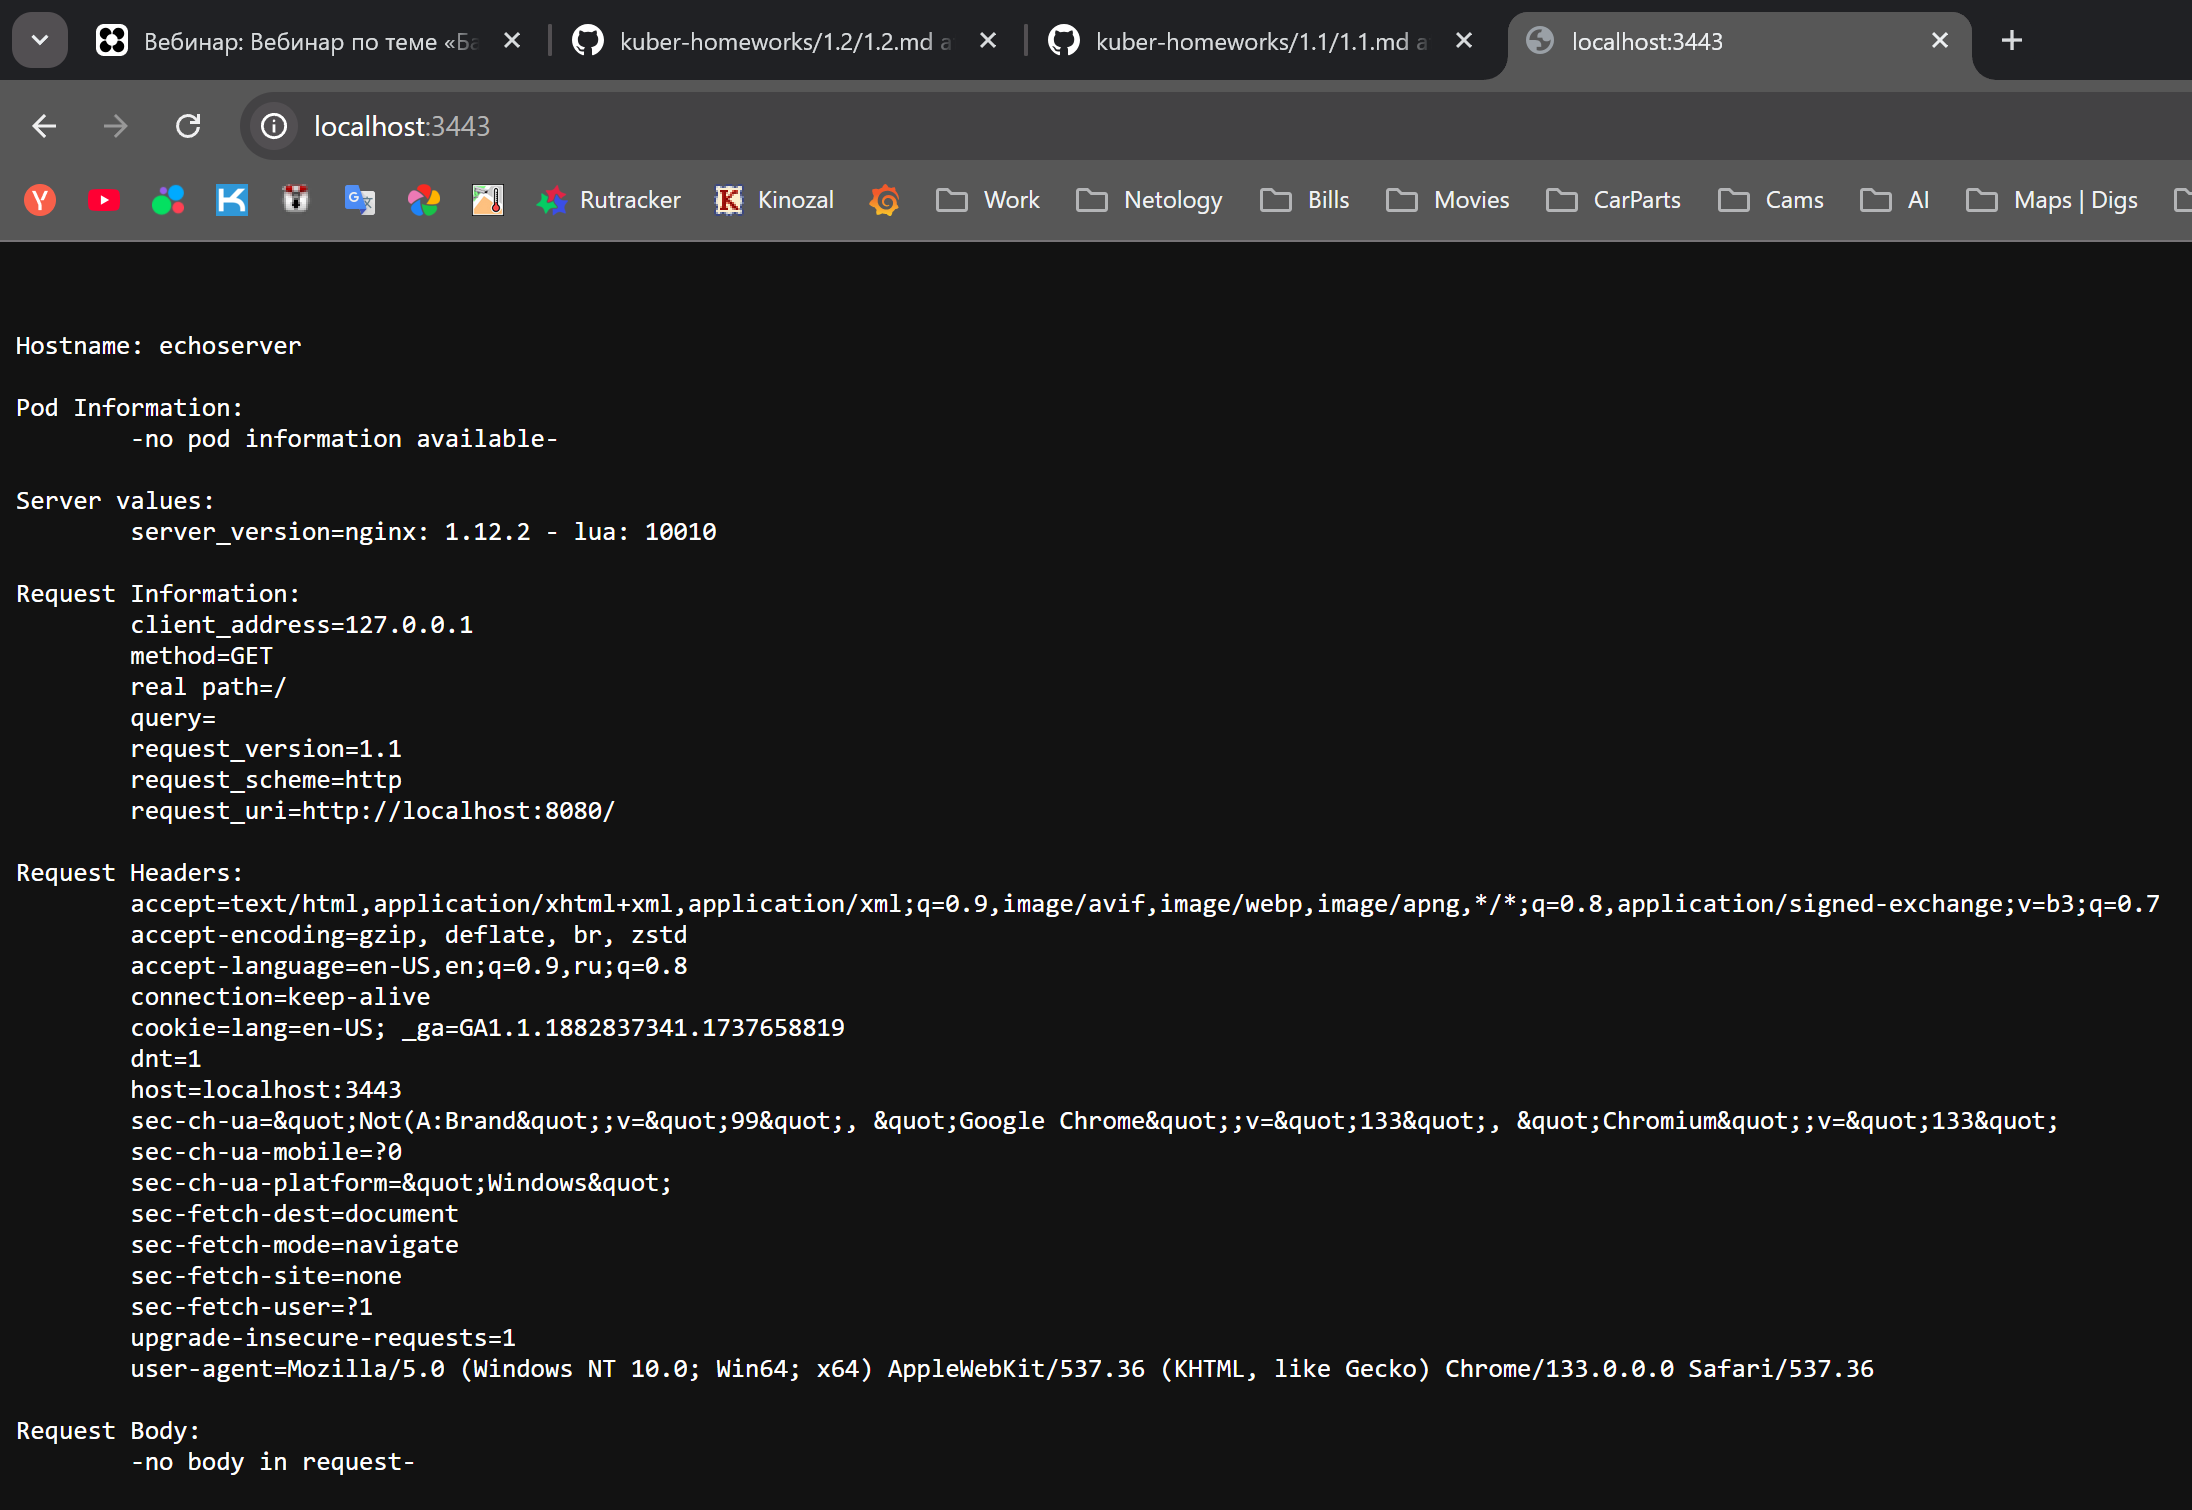
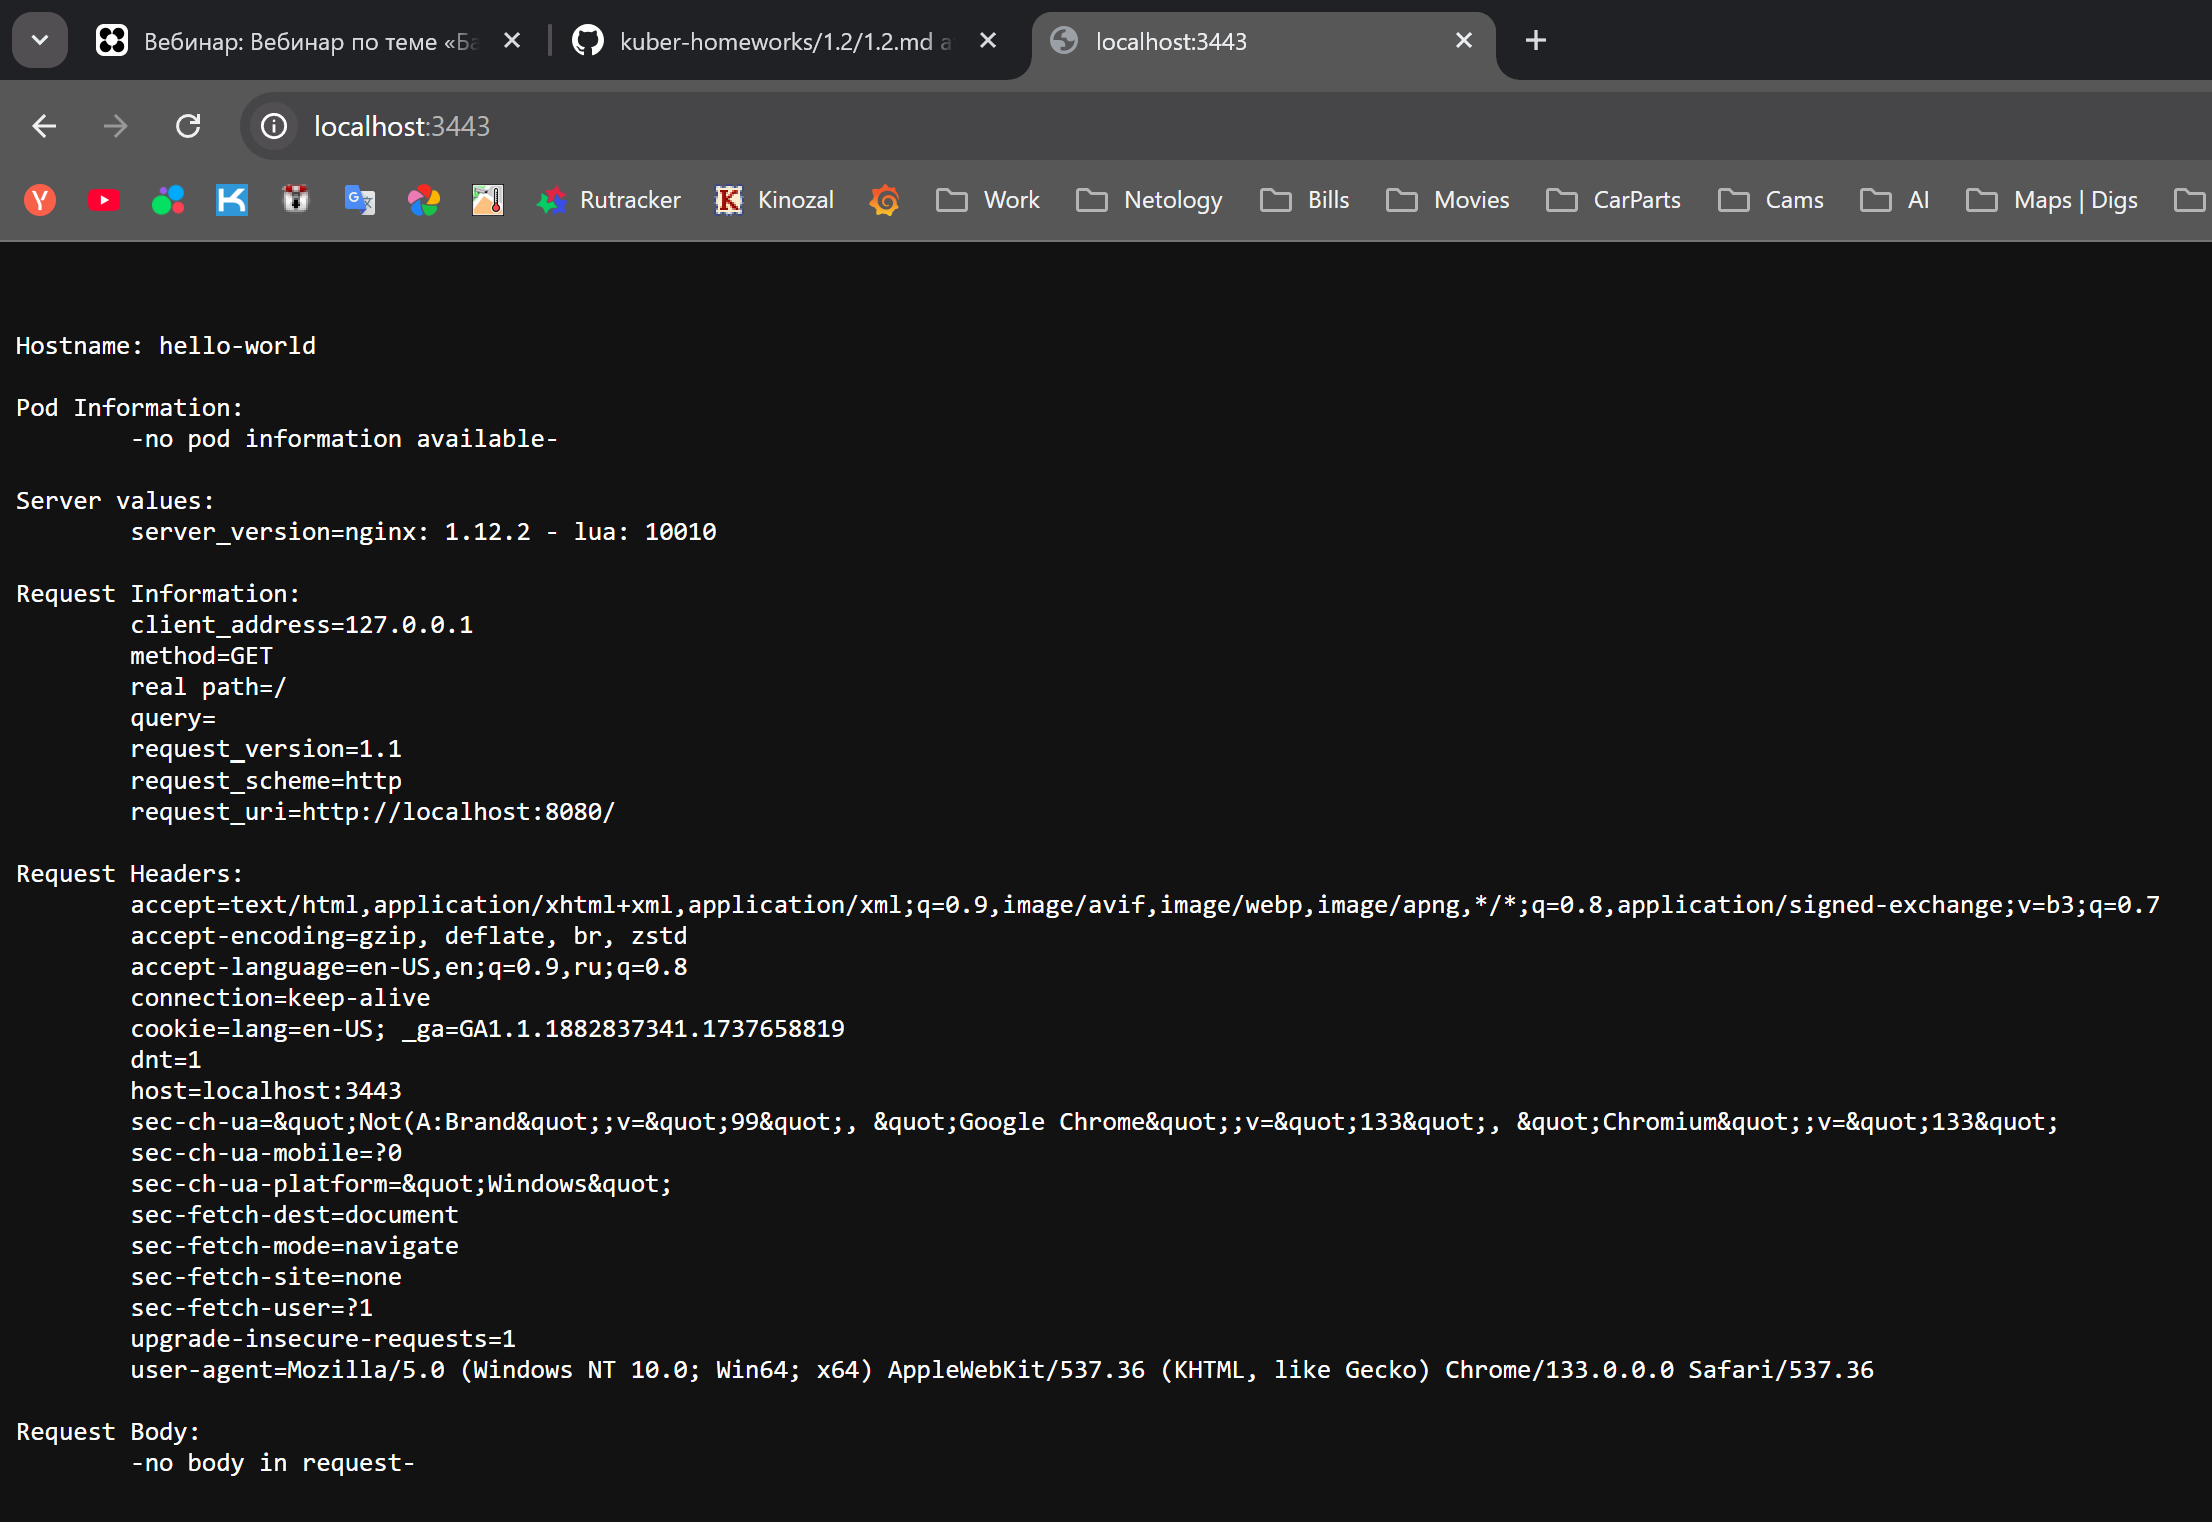
hw2

diff --git a/1.2/README.md b/1.2/README.md
@@ -1,5 +1,31 @@
+### Задание 1. Создать Pod с именем hello-world
+
+Созданный pod
+
 ![alt text](<Screenshot 2025-03-07 000857.png>)
+
+Проброс портов
 
 ![alt text](<Screenshot 2025-03-07 000821.png>)
 
+Результат в браузере
+
 ![alt text](<Screenshot 2025-03-07 000739.png>)
+
+### Задание 2. Создать Service и подключить его к Pod
+
+Созданный pod и сервис
+
+![alt text](<Screenshot 2025-03-07 201516.png>)
+
+Информация о сервисе и подключенном pod
+
+![alt text](<Screenshot 2025-03-07 201157.png>)
+
+Проброс портов
+
+![alt text](<Screenshot 2025-03-07 201634.png>)
+
+Результат в браузере
+
+![alt text](<Screenshot 2025-03-07 201616.png>)
